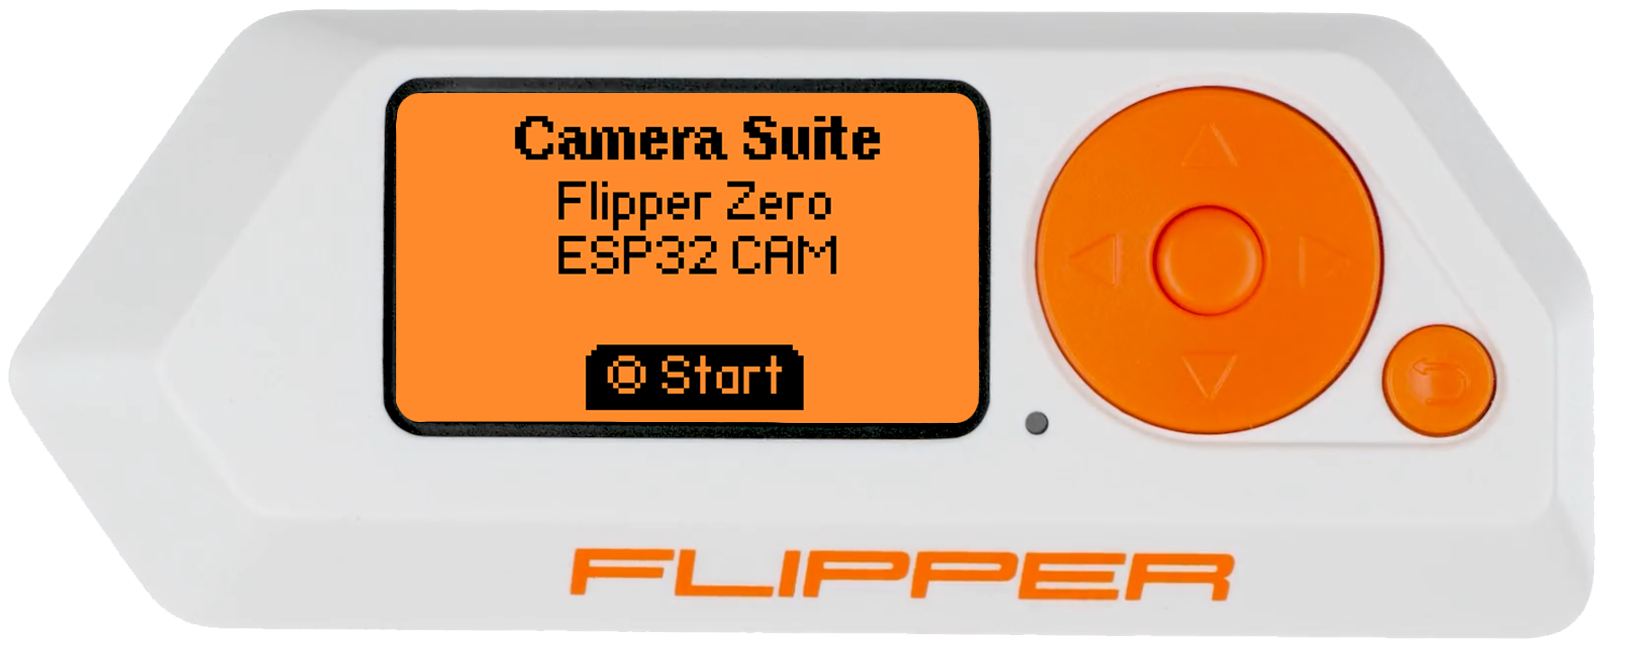
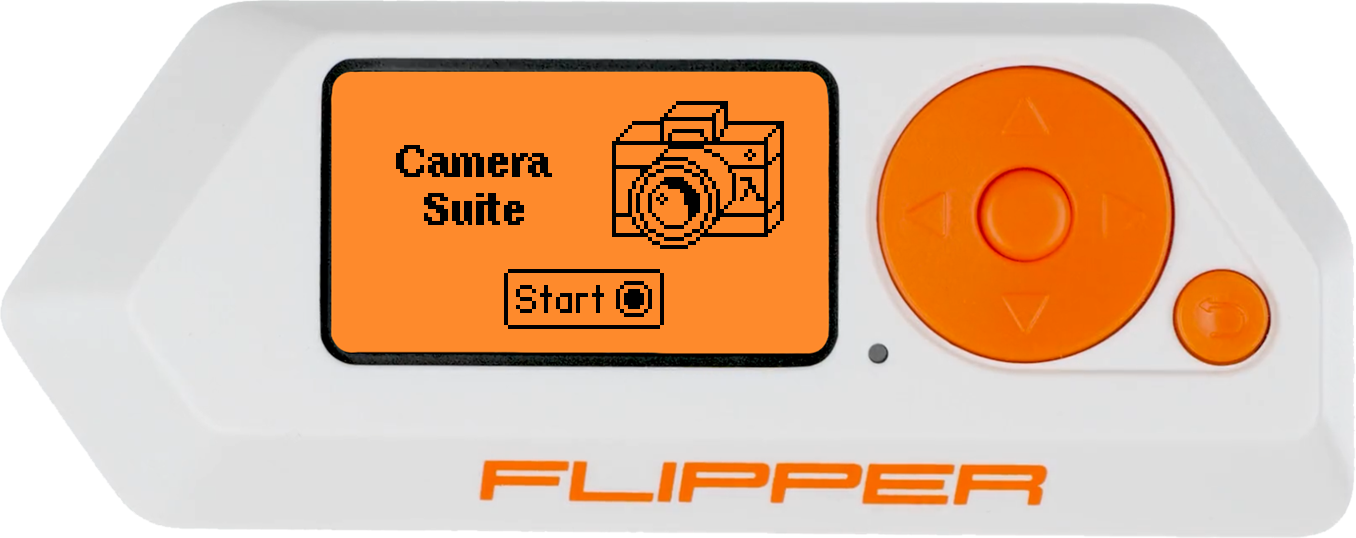
Update the README with a new splash screen image preview.

diff --git a/fap/views/camera_suite_view_start.c b/fap/views/camera_suite_view_start.c
@@ -28,8 +28,7 @@ void camera_suite_view_start_draw(Canvas* canvas, CameraSuiteViewStartModel* mod
     UNUSED(model);
     canvas_clear(canvas);
 
-    // Draw Camera Suite logo. Hand drawn with the help
-    // of "https://lopaka.app/", check them out!
+    // Draw Camera Suite logo.
     canvas_draw_circle(canvas, 82, 28, 1);
     canvas_draw_circle(canvas, 85, 29, 11);
     canvas_draw_circle(canvas, 85, 29, 6);
